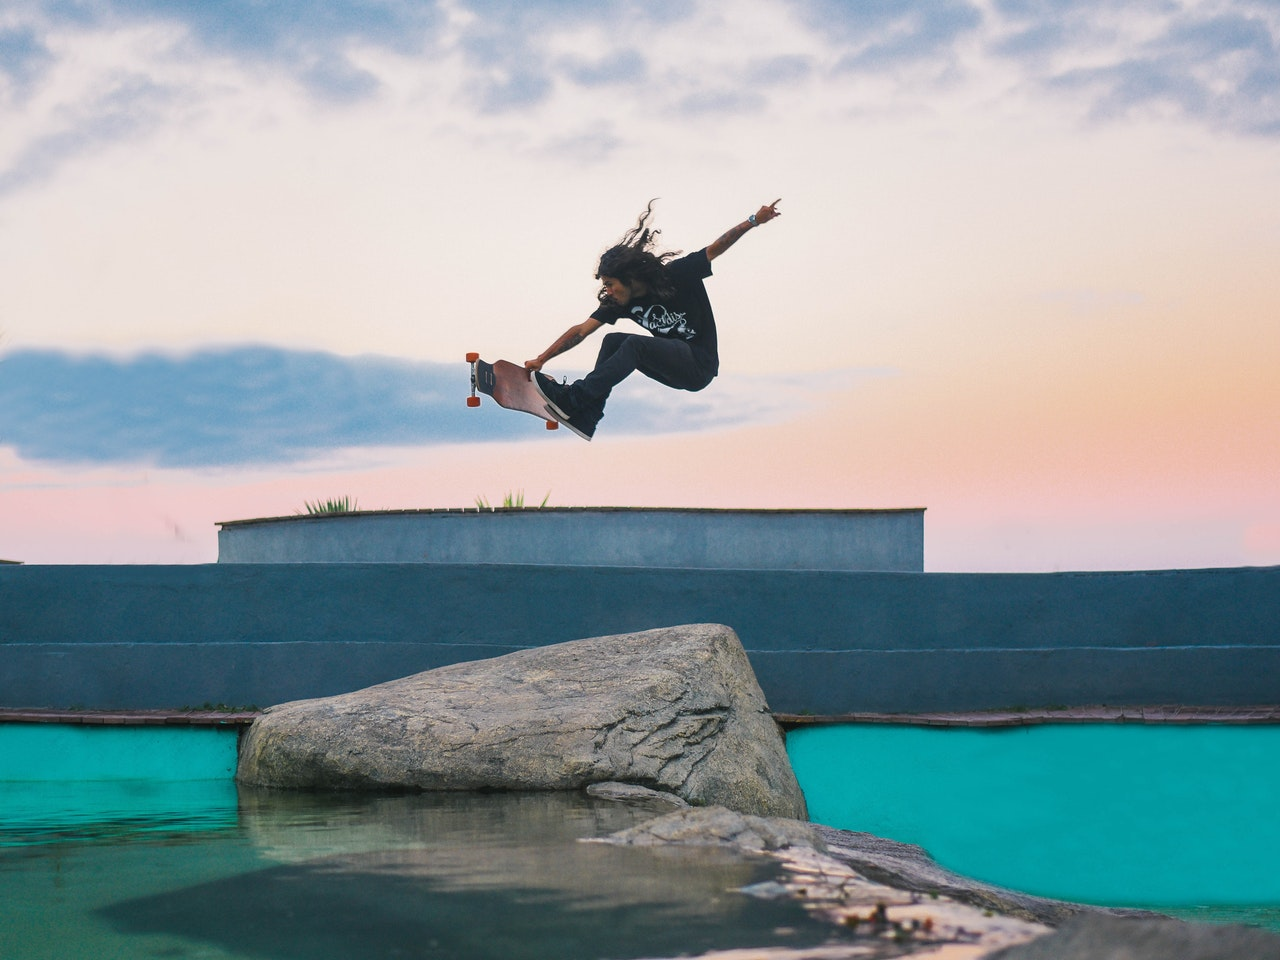
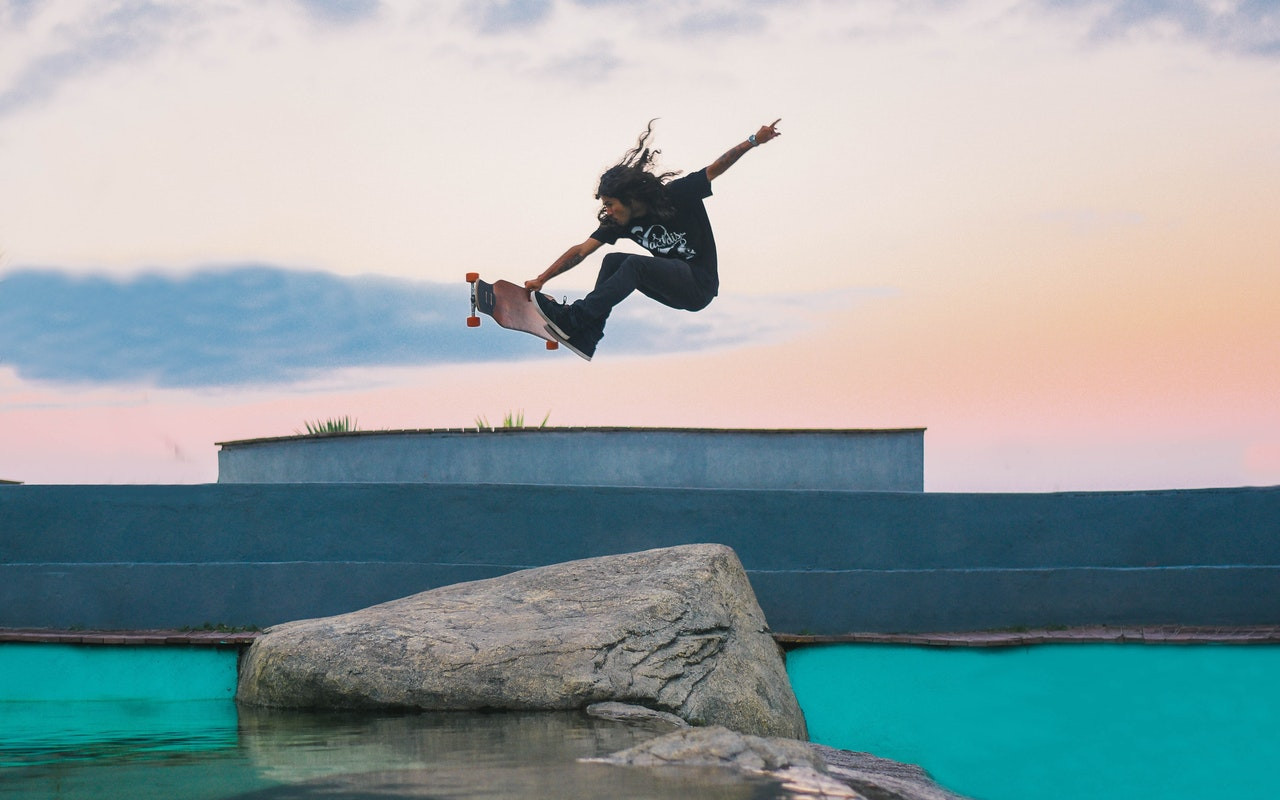
slider image sized

diff --git a/index.html b/index.html
@@ -17,10 +17,20 @@
         <h2>First Slider</h2>
         <div class="slider-container">
           <div class="slider-content slider-1-content">
-            <img src="./images/slider_1_1.jpg" alt="slider_image" />
-            <img src="./images/slider_1_2.jpg" alt="slider_image" />
-            <img src="./images/slider_1_3.jpg" alt="slider_image" />
-            <img src="./images/slider_1_4.jpg" alt="slider_image" />
+            <div class="slider-content-img">
+              <img src="./images/slider_1_1.jpg" alt="slider_image" />
+            </div>
+            <div class="slider-content-img">
+              <img src="./images/slider_1_2.jpg" alt="slider_image" />
+            </div>
+
+            <div class="slider-content-img">
+              <img src="./images/slider_1_3.jpg" alt="slider_image" />
+            </div>
+
+            <div class="slider-content-img">
+              <img src="./images/slider_1_4.jpg" alt="slider_image" />
+            </div>
           </div>
           <div class="btn btn-prev btn-slider-1">prev</div>
           <div class="btn btn-next btn-slider-1">next</div>

diff --git a/css/style.css b/css/style.css
@@ -37,8 +37,12 @@ h2 {
   transition: all 0.5s ease-in-out;
 }
 
-.slider-content img {
+.slider-content-img {
   width: 25%;
+}
+
+.slider-content-img img {
+  width: 100%;
 }
 
 .btn {
